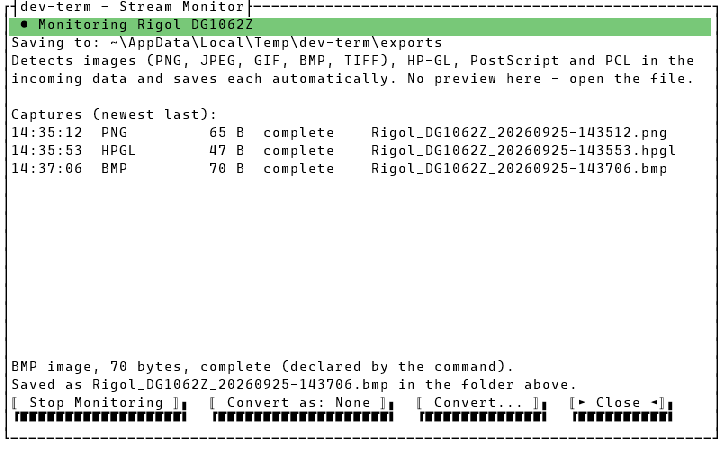
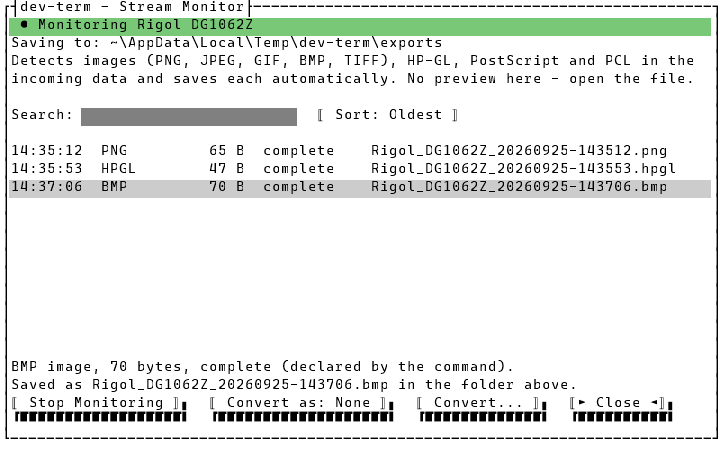
Add search and sort to the TUI Stream Monitor list

Changed region(s): [[0.0, 0.2178, 1.0, 0.4667]]

diff --git a/src/DevTerm.Console/StreamMonitorMode.cs b/src/DevTerm.Console/StreamMonitorMode.cs
@@ -52,11 +52,13 @@ internal static class StreamMonitorMode
         var statusLabel = new Label { X = 0, Y = 0, Width = Dim.Fill(), HotKeySpecifier = noHotKey };
         var folderLabel = new Label { X = 0, Y = 1, Width = Dim.Fill(), Height = 1, HotKeySpecifier = noHotKey };
         var explanationLabel = new Label { X = 0, Y = 2, Width = Dim.Fill(), Height = 2, Text = ExplanationText };
-        var capturesLabel = new Label { X = 0, Y = 5, Text = "Captures (newest last):" };
+        var capturesLabel = new Label { X = 0, Y = 5, Text = "Search:" };
+        var searchField = new TextField { X = Pos.Right(capturesLabel) + 1, Y = 5, Width = 24 };
+        var sortButton = new Button { X = Pos.Right(searchField) + 2, Y = 5, Text = SortText(StreamCaptureSort.Oldest), ShadowStyle = ShadowStyles.None };
         var captureList = new ListView
         {
             X = 0,
-            Y = 6,
+            Y = 7,
             Width = Dim.Fill(),
             Height = Dim.Fill(4),
         };
@@ -69,17 +71,29 @@ internal static class StreamMonitorMode
         var rows = new ObservableCollection<string>();
         captureList.SetSource(rows);
 
+        // The captures the list currently shows (StreamCaptureView over the monitor's own list), in the order shown.
+        IReadOnlyList<StreamMonitorCapture> shown = [];
+        var sort = StreamCaptureSort.Oldest;
+
+        StreamMonitorCapture? Selected()
+        {
+            if (shown.Count == 0)
+            {
+                return null;
+            }
+
+            return captureList.SelectedItem is int selected && selected >= 0 && selected < shown.Count ? shown[selected] : shown.MaxBy(c => c.LocalStartedAt);
+        }
+
         void ShowDetail()
         {
-            var captures = monitor.Captures;
-            if (captures.Count == 0)
+            if (Selected() is not { } capture)
             {
-                detailLabel.Text = "Nothing captured yet.";
+                detailLabel.Text = monitor.Captures.Count == 0 ? "Nothing captured yet." : "No capture matches the search.";
                 return;
             }
 
-            var index = captureList.SelectedItem is int selected && selected >= 0 && selected < captures.Count ? selected : captures.Count - 1;
-            detailLabel.Text = Detail(captures[index]);
+            detailLabel.Text = Detail(capture);
         }
 
         // Rebuilds everything from the monitor's own state - called on the UI thread, directly while
@@ -101,16 +115,16 @@ internal static class StreamMonitorMode
             folderLabel.Text = $"Saving to: {TuiText.CompactPath(monitor.ExportDirectory, Math.Max((app.Screen.Width > 0 ? app.Screen.Width : 80) - 14 - more.Length, 20))}{more}";
             toggleButton.Text = running ? "Stop Monitoring" : "Start Monitoring";
 
-            var captures = monitor.Captures;
+            shown = StreamCaptureView.Apply(monitor.Captures, searchField.Text, sort: sort);
             rows.Clear();
-            foreach (var capture in captures)
+            foreach (var capture in shown)
             {
                 rows.Add(Row(capture));
             }
 
-            if (captures.Count > 0)
+            if (shown.Count > 0)
             {
-                captureList.SelectedItem = captures.Count - 1;
+                captureList.SelectedItem = shown.Select((c, i) => (c, i)).MaxBy(x => (x.c.LocalStartedAt, x.i)).i;
             }
 
             ShowDetail();
@@ -127,6 +141,15 @@ internal static class StreamMonitorMode
         };
 
         captureList.ValueChanged += (_, _) => ShowDetail();
+        searchField.TextChanged += (_, _) => Refresh();
+        sortButton.Accepting += (_, e) =>
+        {
+            e.Handled = true;
+            var all = Enum.GetValues<StreamCaptureSort>();
+            sort = all[(Array.IndexOf(all, sort) + 1) % all.Length];
+            sortButton.Text = SortText(sort);
+            Refresh();
+        };
 
         toggleButton.Accepting += (_, e) =>
         {
@@ -160,14 +183,11 @@ internal static class StreamMonitorMode
         convertButton.Accepting += (_, e) =>
         {
             e.Handled = true;
-            var captures = monitor.Captures;
-            if (captures.Count == 0)
+            if (Selected() is not { } capture)
             {
                 return;
             }
 
-            var index = captureList.SelectedItem is int selected && selected >= 0 && selected < captures.Count ? selected : captures.Count - 1;
-            var capture = captures[index];
             detailLabel.Text = "Converting...";
 
             _ = converter.ConvertAsync(capture).ContinueWith(
@@ -195,10 +215,10 @@ internal static class StreamMonitorMode
             app.RequestStop();
         };
 
-        window.Add(statusLabel, folderLabel, explanationLabel, capturesLabel, captureList, detailLabel, toggleButton, modeButton, convertButton, closeButton);
+        window.Add(statusLabel, folderLabel, explanationLabel, capturesLabel, searchField, sortButton, captureList, detailLabel, toggleButton, modeButton, convertButton, closeButton);
         Refresh();
 
-        return new StreamMonitorWindowParts(window, statusLabel, captureList, detailLabel, toggleButton, convertButton, closeButton, Refresh, modeButton, converterOptions);
+        return new StreamMonitorWindowParts(window, statusLabel, captureList, detailLabel, toggleButton, convertButton, closeButton, Refresh, modeButton, converterOptions, searchField, sortButton);
     }
 
     /// <summary>
@@ -216,6 +236,9 @@ internal static class StreamMonitorMode
         return $"{time}  {type,-4} {size,11}  {capture.EndLabel,-10}  {file}";
     }
 
+    /// <summary>The sort button's label; pressing it cycles to the next order.</summary>
+    internal static string SortText(StreamCaptureSort sort) => $"Sort: {sort}";
+
     /// <summary>The two detail lines under the list for the selected capture: what it is, then where it went.</summary>
     internal static string Detail(StreamMonitorCapture capture)
     {
@@ -228,4 +251,4 @@ internal static class StreamMonitorMode
 }
 
 /// <summary>The Stream Monitor window's controls, for tests to drive/inspect headlessly — <see cref="Refresh"/> is what the window runs whenever the monitor changes.</summary>
-internal sealed record StreamMonitorWindowParts(Window Window, Label StatusLabel, ListView CaptureList, Label DetailLabel, Button ToggleButton, Button ConvertButton, Button CloseButton, Action Refresh, Button ModeButton, StreamCaptureConverterOptions ConverterOptions);
+internal sealed record StreamMonitorWindowParts(Window Window, Label StatusLabel, ListView CaptureList, Label DetailLabel, Button ToggleButton, Button ConvertButton, Button CloseButton, Action Refresh, Button ModeButton, StreamCaptureConverterOptions ConverterOptions, TextField SearchField, Button SortButton);

diff --git a/tests/DevTerm.Console.Tests/StreamMonitorModeTests.cs b/tests/DevTerm.Console.Tests/StreamMonitorModeTests.cs
@@ -45,6 +45,43 @@ public sealed class StreamMonitorModeTests
     }
 
     [TestMethod]
+    public async Task SearchAndSort_NarrowAndReorderTheList()
+    {
+        await using var bench = await StreamMonitorBench.StartAsync("Bench scope");
+        await bench.CaptureAsync(StreamContentSamples.Bmp());
+        await bench.CaptureAsync(StreamContentSamples.Png());
+
+        TuiTestRunner.RunHeadlessApp(app =>
+        {
+            var parts = StreamMonitorMode.BuildWindow(app, bench.Monitor);
+            var token = app.Begin(parts.Window) ?? throw new NotSupportedException();
+            app.LayoutAndDraw(true);
+            try
+            {
+                Assert.AreEqual(2, parts.CaptureList.Source!.Count);
+
+                parts.SearchField.Text = "png";
+                Assert.AreEqual(1, parts.CaptureList.Source!.Count);
+                Assert.Contains("PNG", parts.DetailLabel.Text);
+
+                parts.SearchField.Text = "no such thing";
+                Assert.AreEqual(0, parts.CaptureList.Source!.Count);
+                Assert.AreEqual("No capture matches the search.", parts.DetailLabel.Text);
+
+                parts.SearchField.Text = string.Empty;
+                parts.SortButton.InvokeCommand(Command.Accept);
+                Assert.AreEqual(StreamMonitorMode.SortText(StreamCaptureSort.Newest), parts.SortButton.Text);
+                Assert.AreEqual(2, parts.CaptureList.Source!.Count);
+            }
+            finally
+            {
+                app.End(token);
+                parts.Window.Dispose();
+            }
+        });
+    }
+
+    [TestMethod]
     public async Task Captures_AreListedNewestLast_WithTheSavedFileName()
     {
         await using var bench = await StreamMonitorBench.StartAsync("Bench scope");

diff --git a/docs/specs/stream-monitor.md b/docs/specs/stream-monitor.md
@@ -26,7 +26,7 @@ The shared behavior lives outside both front ends: detection in `DevTerm.Core.St
 | Explanation | Two fixed lines | One wrapped line | What's detected, and (TUI) that there's no preview |
 | Capture list | `ListView`, one row per capture: `HH:mm:ss  TYPE  size  end  file` | `ListBox`, two lines per capture: `HH:mm:ss — {kind}` / `{size} bytes · {end} · {file}` | Oldest first; the newest is selected whenever one arrives. Keeps the last 100 (`StreamMonitor.MaxRetainedCaptures`) — saved files are never deleted |
 | Detail | Two lines under the list: `{kind}, {size} bytes, {end}[ (declared by the command)].` / `Saved as {file} in the folder above.` or `Not saved: {reason}` | Same first line; second line `Saved to {path}` or `Not saved: {reason}` | For the selected capture |
-| List criteria | — (not built yet) | A search box (device, content type, file name or time, case-insensitive), a content-type filter, a device filter and a sort (Oldest, Newest, Largest, Kind, Device) above the list | One list, not parallel captures. `StreamCaptureView.Apply` (shared, in `DevTerm.Configuration`) does the work. The newest capture by time is selected after each change; nothing matching shows the empty message |
+| List criteria | A `Search:` field (same matching as WPF) and a `Sort: {order}` button that cycles Oldest, Newest, Largest, Kind, Device; no separate type/device filters (search matches them) | A search box (device, content type, file name or time, case-insensitive), a content-type filter, a device filter and a sort (Oldest, Newest, Largest, Kind, Device) above the list | One list, not parallel captures. `StreamCaptureView.Apply` (shared, in `DevTerm.Configuration`) does the work. The newest capture by time is selected after each change; nothing matching shows the empty message |
 | Preview | — | `Image` for BMP/PNG/JPEG/GIF/TIFF (WPF's built-in decoders, scaled down to fit, never up) or a converted SVG (`SvgPreview`); otherwise a message | See States |
 
 "End" is how the capture finished (`StreamMonitorCapture.EndLabel`):
@@ -165,8 +165,8 @@ a converter tool covers it, and a profile still saying `webservice` now fails va
   can't yet.
 - **One capture at a time**: a second declared/sniffed stream starting while one is still in progress
   is appended to the first, not captured separately (the proposal's open question on correlation).
-  **Decided 2026-10-03:** keep one list view rather than parallel captures, with filter, search and sort. Built in WPF
-  2026-10-03 (see List criteria); the TUI window doesn't have it yet; the correlation question itself stays open.
+  **Decided 2026-10-03:** keep one list view rather than parallel captures, with filter, search and sort. Built in both
+  front ends 2026-10-03 (see List criteria); the correlation question itself stays open.
 - **No retention/cleanup** of the export folder.
 - **Not verified against real hardware** yet — the DG1062Z screen capture (a real BMP in a
   definite-length block) and the TDS2024's `HARDCopy STARt` output (BMP/TIFF/EPS/PCL depending on

diff --git a/docs/changes/2026-10-03.md b/docs/changes/2026-10-03.md
@@ -254,4 +254,4 @@ Both front ends now switch tabs with Alt+Right (next) and Alt+Left (previous), w
 
 ## Stream Monitor filter, search and sort (WPF)
 
-`StreamCaptureView` (DevTerm.Configuration) filters by content type and device, searches device/type/end/file/time, and sorts (Oldest, Newest, Largest, Kind, Device). `StreamMonitorWindow` keeps every retained capture and rebuilds `Items` from it on each change; the newest by time stays selected. The criteria are stacked in two rows because three combos in one row clipped "All devices" at the minimum width (caught by `UiLayoutReviewTests`). Tests: `StreamCaptureViewTests` (5), `StreamMonitorWindowTests.FilterSearchAndSort_NarrowTheOneList`. WPF suite 250 passed. Regenerated the three `wpf-stream-monitor*` screenshots; the device-profile and theme images drift on this machine as before and were reverted. TUI window not done.
+`StreamCaptureView` (DevTerm.Configuration) filters by content type and device, searches device/type/end/file/time, and sorts (Oldest, Newest, Largest, Kind, Device). `StreamMonitorWindow` keeps every retained capture and rebuilds `Items` from it on each change; the newest by time stays selected. The criteria are stacked in two rows because three combos in one row clipped "All devices" at the minimum width (caught by `UiLayoutReviewTests`). Tests: `StreamCaptureViewTests` (5), `StreamMonitorWindowTests.FilterSearchAndSort_NarrowTheOneList`. WPF suite 250 passed. Regenerated the three `wpf-stream-monitor*` screenshots; the device-profile and theme images drift on this machine as before and were reverted. The TUI window got a `Search:` field and a cycling `Sort:` button (`StreamMonitorModeTests.SearchAndSort_NarrowAndReorderTheList`); the list moved down one row, so `tui-stream-monitor.png/.txt` were regenerated (`tui-main-logging.png` drift reverted again).

diff --git a/BACKLOG.md b/BACKLOG.md
@@ -68,7 +68,6 @@ the rest.
 
 - **Multi-session tabs:** the merged time-ordered view of logging and the Stream Monitor across tabs (per-tab history, logging, empty window and Alt+Left/Right already built; [multi-session-ui](docs/design/multi-session-ui.md)).
 - **Remember a dismissed/used control-panel hint per profile** (the hint itself shipped 2026-10-03) ([device-control-panel spec](docs/specs/device-control-panel.md)).
-- **Stream Monitor filter, search and sort in the TUI window** (WPF has it; `StreamCaptureView` is shared) ([stream-monitor spec](docs/specs/stream-monitor.md)).
 - **Per-module destructive-command confirmation**, declared in a manifest or profile ([device-control-modules](docs/design/device-control-modules.md)).
 - **Chart hover readout, table view and history export** ([spec](docs/specs/device-control-panel.md)).
 - **TUI terminal-palette theme, and a live-following `system` theme** ([theming](docs/design/theming.md)).

diff --git a/docs/user-guide/stream-monitor.md b/docs/user-guide/stream-monitor.md
@@ -72,7 +72,7 @@ decodes itself (PNG, JPEG, GIF, BMP, TIFF):
 
 ![WPF Stream Monitor previewing a captured PNG screen dump](images/wpf-stream-monitor.png)
 
-In WPF the box above the list searches captures by device, type, file name or time; the two drop-downs below it filter by content type and device, and the last one sorts (oldest, newest, largest, by type or by device).
+In the TUI, type in **Search:** to narrow the list and press the **Sort:** button to cycle the order. In WPF the box above the list searches captures by device, type, file name or time; the two drop-downs below it filter by content type and device, and the last one sorts (oldest, newest, largest, by type or by device).
 
 HP-GL, PostScript and PCL are captured and saved, but can't be previewed directly:
 
